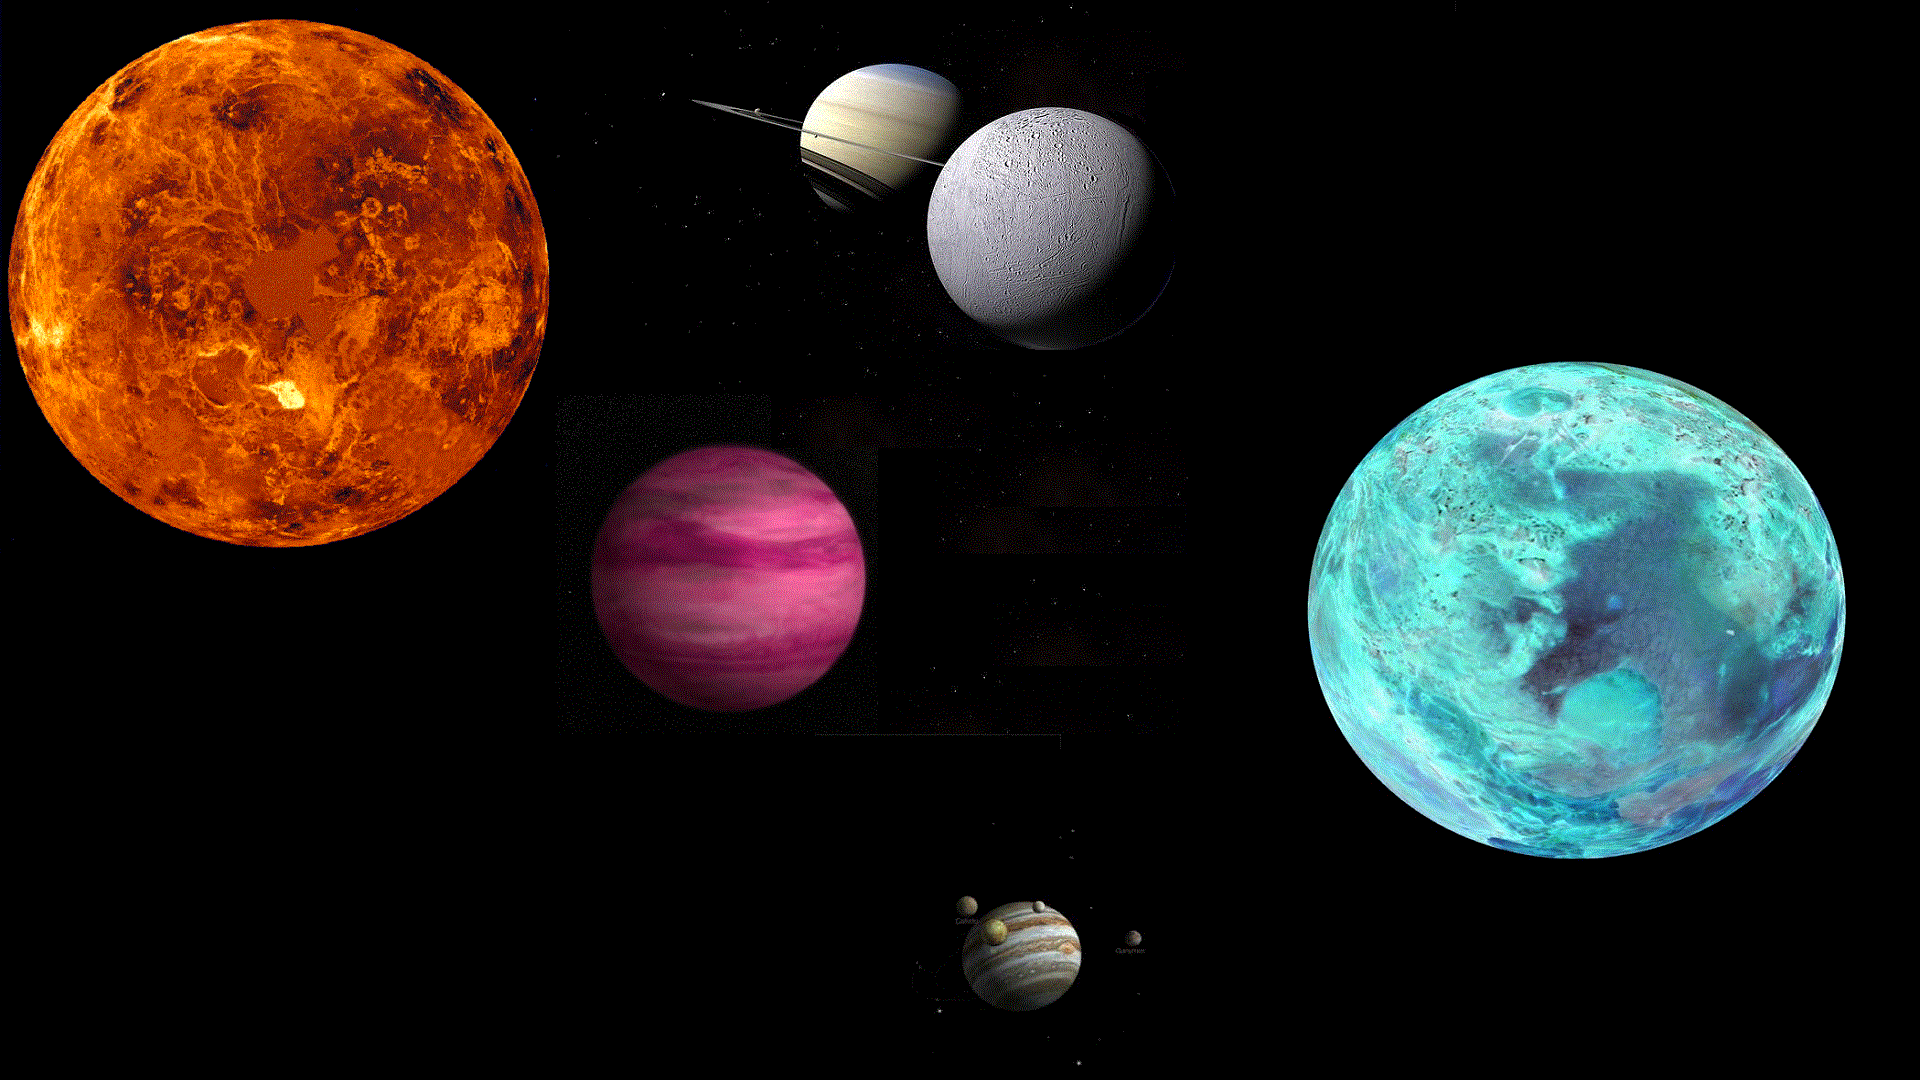
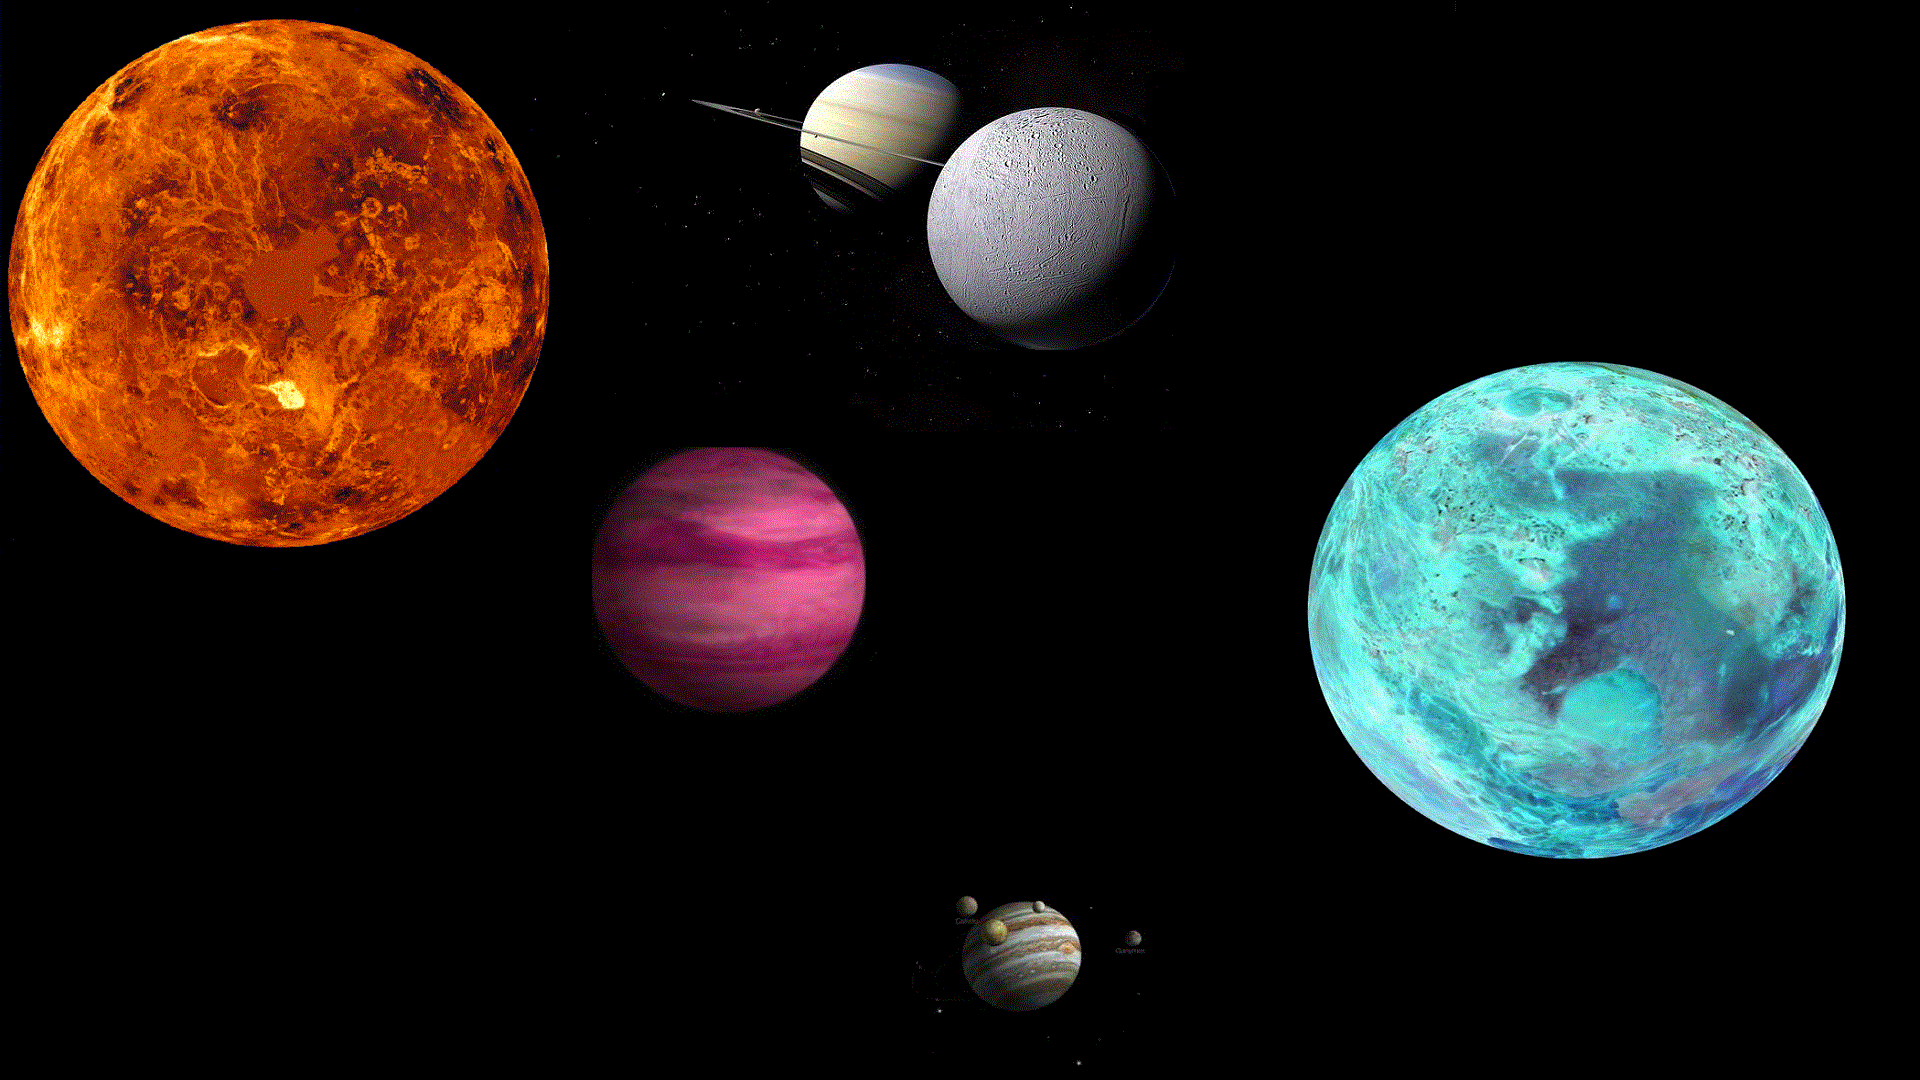
Première version du déplacement

Changed region(s): [[0.2812, 0.3667, 0.4688, 0.4889], [0.5, 0.4278, 0.625, 0.5194], [0.5312, 0.5806, 0.5938, 0.6111]]

diff --git a/AT/src/spaceshipWidget.js b/AT/src/spaceshipWidget.js
@@ -13,8 +13,6 @@ class SpaceshipWidget extends TUIOWidget {
   constructor(x, y, width, height, initialRotation, initialScale, src, drawer) {
     super(x, y, width, height, initialRotation);
     this.src = src;
-    this.internX = x;
-    this.internY = y;
     this._domElem = $('<img>');
     this._domElem.attr('src', src);
     this._domElem.css('width', `${this.width * initialScale}px`);
@@ -29,10 +27,12 @@ class SpaceshipWidget extends TUIOWidget {
     this.initialX = x + (this._width / 2);
     this.initialY = y + (this._height / 2);
     this.drawer = drawer;
+    this.direction = {};
     this.idTagMove = 2;
     this.canMoveTangible = true;
     this.canDeleteTangible = true;
     this.hasDuplicate = false;
+    this.moving = 0;
   }
 
   /**
@@ -49,6 +49,7 @@ class SpaceshipWidget extends TUIOWidget {
    * @param {TUIOTag} tuioTag - A TUIOTag instance.
    */
   onTagCreation(tuioTag) {
+    console.log('Creating tag');
     if (!this._isInStack) {
       super.onTagCreation(tuioTag);
       if (this.isTouched(tuioTag.x, tuioTag.y)) {
@@ -57,15 +58,8 @@ class SpaceshipWidget extends TUIOWidget {
           [tuioTag.id]: {
             x: tuioTag.x,
             y: tuioTag.y,
-            angle: tuioTag.angle,
           },
         };
-        //  This will be used to save the last angle recorded and make a comparison in onTagUpdate
-        this._lastTagsValues.angle = 0;
-        //  Setting the scale only at the start
-        if (this._lastTagsValues.scale == null) {
-          this._lastTagsValues.scale = this.scale;
-        }
       }
     }
   }
@@ -77,6 +71,7 @@ class SpaceshipWidget extends TUIOWidget {
    * @param {TUIOTag} tuioTag - A TUIOTag instance.
    */
   onTagUpdate(tuioTag) {
+    console.log('Updating tag');
     if (typeof (this._lastTagsValues[tuioTag.id]) !== 'undefined') {
       if (tuioTag.id === this.idTagDelete && this.canDeleteTangible) {
         this._domElem.remove();
@@ -99,12 +94,6 @@ class SpaceshipWidget extends TUIOWidget {
             y: tuioTag.y,
           },
         };
-
-        // Saving the new positions
-        this._x = this._domElem.position().left;
-        this._y = this._domElem.position().top;
-        this._width = this._domElem.width();
-        this._height = this._domElem.height();
       }
     }
   }
@@ -115,12 +104,45 @@ class SpaceshipWidget extends TUIOWidget {
    * @method onTagDeletion
    * @param {number/string} tuioTagId - TUIOTag's id to delete.
    */
-  // onTagDeletion(tuioTagId) {
-  //   console.log('deleted');
-  // }
+  onTagDeletion(tuioTagId) {
+    if (super.tags[tuioTagId] !== undefined) {
+      this.direction.x = super.tags[tuioTagId].x;
+      this.direction.y = super.tags[tuioTagId].y;
+    }
+    this.startMoving();
+  }
+
+  startMoving() {
+    const dX = (this.direction.x - this.initialX) / 10.0;
+    const dY = (this.direction.y - this.initialY) / 10.0;
+    let countdown = 10;
+    // Trigger the spaceship movement
+    clearInterval(this.moving);
+    this.moving = setInterval(() => {
+      const newX = this._x + dX;
+      const newY = this._y + dY;
+      this.moveTo(newX, newY);
+      // console.log('moved to :', newX, newY);
+      // Saving the new positions
+      this._x = newX;
+      this._y = newY;
+      countdown -= 1;
+      if (countdown === 0) {
+        this.initialX = this._x;
+        this.initialY = this._y;
+        this.direction = {};
+        clearInterval(this.moving);
+        this.clearLines();
+      }
+    }, 1000 / 10);
+  }
 
   drawTrajectory(x1, y1, x2, y2) {
     this.drawer.drawLine(x1, y1, x2, y2);
+  }
+
+  clearLines() {
+    this.drawer.clearLines();
   }
 
   /**
@@ -132,8 +154,8 @@ class SpaceshipWidget extends TUIOWidget {
    * @param {number} angle - New ImageWidget's angle.
    */
   moveTo(x, y, angle = null) {
-    this.internX = x;
-    this.internY = y;
+    this._x = x;
+    this._y = y;
     this._domElem.css('left', `${x}px`);
     this._domElem.css('top', `${y}px`);
     if (angle !== null) {

diff --git a/AT/src/drawer.js b/AT/src/drawer.js
@@ -41,7 +41,6 @@ class Drawer {
   }
 
   drawLine(x1, y1, x2, y2) {
-    console.log('drawing...');
     this.ctx.clearRect(0, 0, this.w, this.h);
     this.ctx.drawImage(this.backgr, 0, 0, 1920, 1080);
 
@@ -53,6 +52,11 @@ class Drawer {
     this.ctx.lineTo(x2, y2);
     this.ctx.stroke();
     this.ctx.restore();
+  }
+
+  clearLines() {
+    this.ctx.clearRect(0, 0, this.w, this.h);
+    this.ctx.drawImage(this.backgr, 0, 0, 1920, 1080);
   }
 
   get domElem() { return this._domElem; }

diff --git a/AT/src/examples.css b/AT/src/examples.css
@@ -6,8 +6,9 @@
 body
 {
   font-family: Proxima;
-  margin: 0px;
 }
+
+html, body {margin: 0; height: 100%; overflow: hidden}
 
 h1
 {
